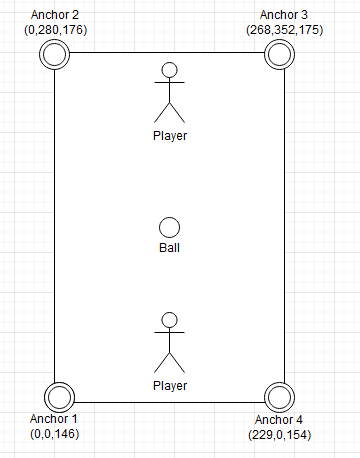
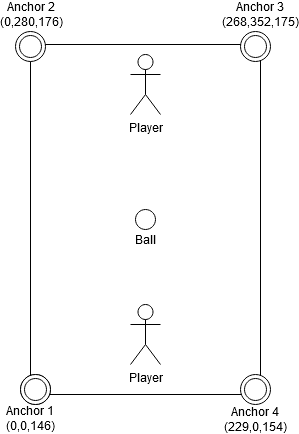
PROJ-176 PROJ-189 PROJ-197 :: Updated images (#99)

Changed region(s): [[0.0, 0.0, 1.0, 1.0], [0.4214, 0.659, 0.5418, 0.8986], [0.4214, 0.4493, 0.5418, 0.5691]]

diff --git a/sections/sprint-5/usability-test-may-18th.tex b/sections/sprint-5/usability-test-may-18th.tex
@@ -27,7 +27,7 @@ If the playing field was suitably small, it was difficult for players to pass ea
 A picture of the gameplay in progress can be seen on \autoref{fig:usability-test-in-progress}.
 \begin{figure}[H]
     \centering
-    \includegraphics[width=0.5\linewidth]{usability-18-05-2020/usability-test-indoors.jpg}
+    \includegraphics[width=0.5\linewidth]{usability-18-05-2020/usability-test-indoors.png}
     \caption{Usability test in progress indoors.}
     \label{fig:usability-test-in-progress.}
 \end{figure}
@@ -42,13 +42,13 @@ Instead, the players were given their player tag and a small power bank to hold 
     \centering
     \begin{subfigure}{.45\textwidth}
         \centering
-        \includegraphics[width=.8\linewidth]{usability-18-05-2020/player-tag.jpg}
+        \includegraphics[width=.8\linewidth]{usability-18-05-2020/player-tag.png}
         \caption{The player tag and a power bank.}
         \label{fig:sub1}
     \end{subfigure}
     \begin{subfigure}{.45\textwidth}
         \centering
-        \includegraphics[width=.8\linewidth]{usability-18-05-2020/ball-tag.jpg}
+        \includegraphics[width=.8\linewidth]{usability-18-05-2020/ball-tag.png}
         \caption{The ball tag and a power bank.}
         \label{fig:sub2}
     \end{subfigure}
